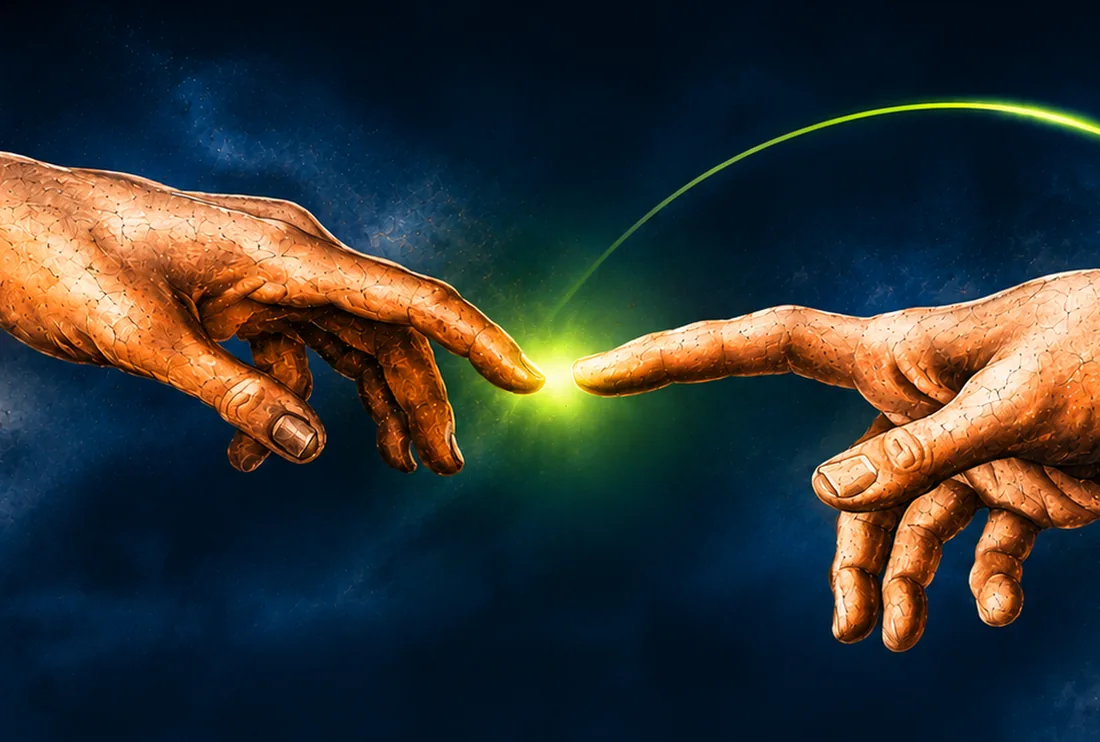
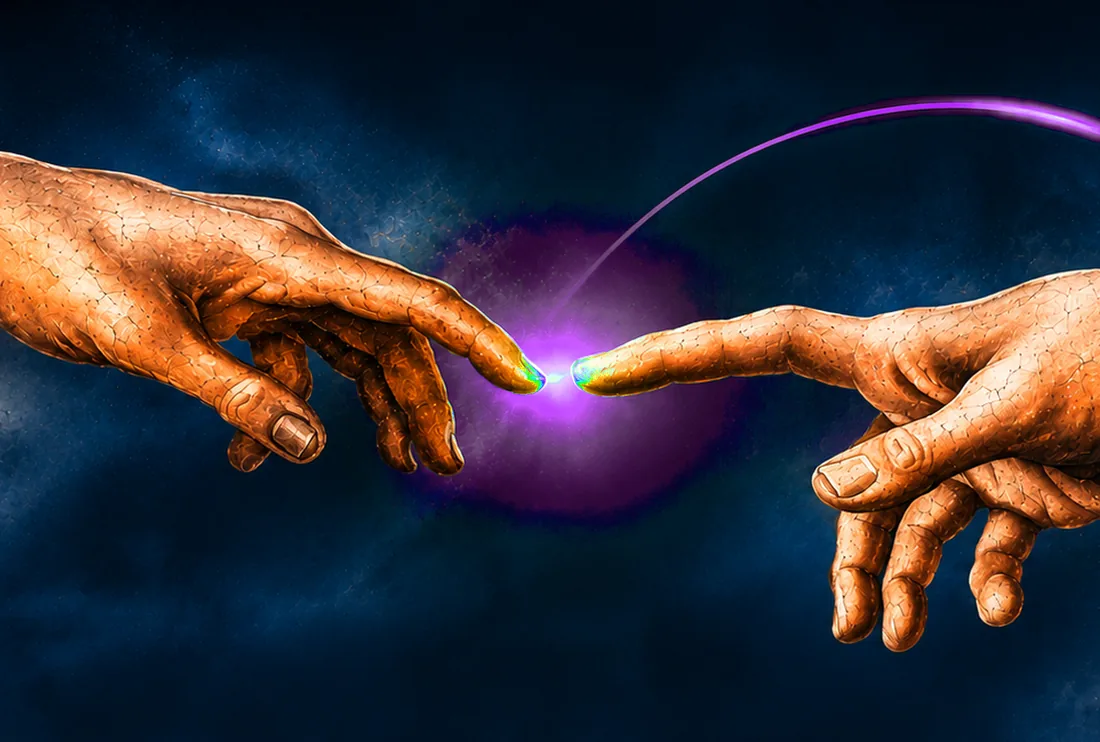
Teste: destaque em lilás neon (#CF7CFF) no lugar do verde-limão, arte da hero recolorida
Claude-Session: https://claude.ai/code/session_01QqojUh1fDsNiDMpA9zWfkV

Changed region(s): [[0.3709, 0.186, 0.7109, 0.7129], [0.7109, 0.124, 1.0, 0.217]]

diff --git a/index.html b/index.html
@@ -48,7 +48,7 @@
   --green:#25d366;           /* WhatsApp */
 
   /* Acento do elemento 3D do hero — troque aqui para mudar a cor do cubo.
-     Opções testadas: lilás #A855F7 (168,85,247) ou verde-limão #B8FF01 (184,255,1).
+     Opções testadas: lilás #A855F7 (168,85,247) ou verde-limão #B8FF01 (207,124,255).
      Atualize as duas linhas juntas. */
   --accent-3d:#3d86ff;
   --accent-3d-rgb:61,134,255;
@@ -57,8 +57,8 @@
      60% azul escuro (fundos) · 30% azul, ciano e branco (apoio)
      10% VERDE-LIMÃO — só no destaque do título, no CTA da hero,
      nas métricas dos cases e na bolinha ativa dos carrosséis. */
-  --lime:#b8ff01;
-  --lime-glow:rgba(184,255,1,.35);
+  --lime:#cf7cff;
+  --lime-glow:rgba(207,124,255,.35);
   --lime-ink:#0a2000;
 
   /* Superfícies (tema escuro corporativo) */
@@ -277,16 +277,16 @@ h1,h2,h3,h4{font-family:Manrope,system-ui,Arial,sans-serif;color:var(--text);lin
   text-shadow:0 4px 40px rgba(3,9,20,.6);
 }
 .h-hero span{display:block;white-space:nowrap;font-size:clamp(2rem,5.5vw,6.2rem);opacity:0;animation:fadeUp .9s .15s var(--ease) forwards}
-.h-hero .t2{font-style:italic;color:var(--lime);padding-right:.08em;text-shadow:0 10px 60px rgba(184,255,1,.22);animation-delay:.35s}
+.h-hero .t2{font-style:italic;color:var(--lime);padding-right:.08em;text-shadow:0 10px 60px rgba(207,124,255,.22);animation-delay:.35s}
 
 .btn--lime{
   position:relative;overflow:hidden;isolation:isolate;
   min-height:60px;padding:0 34px;font-size:1rem;
-  background:var(--lime);color:#030914;box-shadow:0 16px 46px rgba(184,255,1,.28);
+  background:var(--lime);color:#030914;box-shadow:0 16px 46px rgba(207,124,255,.28);
   opacity:0;animation:fadeUp .8s .6s var(--ease) forwards;
 }
 .btn--lime::after{content:"";position:absolute;inset:0;z-index:-1;background:linear-gradient(110deg,transparent 30%,rgba(255,255,255,.55) 50%,transparent 70%);transform:translateX(-120%);transition:transform .7s var(--ease)}
-.btn--lime:hover{transform:translateY(-2px);box-shadow:0 22px 56px rgba(184,255,1,.42)}
+.btn--lime:hover{transform:translateY(-2px);box-shadow:0 22px 56px rgba(207,124,255,.42)}
 .btn--lime:hover::after{transform:translateX(120%)}
 @keyframes fadeUp{from{opacity:0;transform:translateY(12px)}to{opacity:1;transform:none}}
 
@@ -322,7 +322,7 @@ h1,h2,h3,h4{font-family:Manrope,system-ui,Arial,sans-serif;color:var(--text);lin
 }
 .pillars-stage::after{
   right:4%;top:-20%;width:40%;height:130%;
-  background:radial-gradient(closest-side at 40% 50%,rgba(32,216,245,.55),transparent),radial-gradient(closest-side at 70% 60%,rgba(184,255,1,.22),transparent);
+  background:radial-gradient(closest-side at 40% 50%,rgba(32,216,245,.55),transparent),radial-gradient(closest-side at 70% 60%,rgba(207,124,255,.22),transparent);
   animation:blobB 14s ease-in-out infinite;
 }
 @keyframes blobA{0%,100%{transform:translate3d(0,0,0)}50%{transform:translate3d(18%,8%,0)}}
